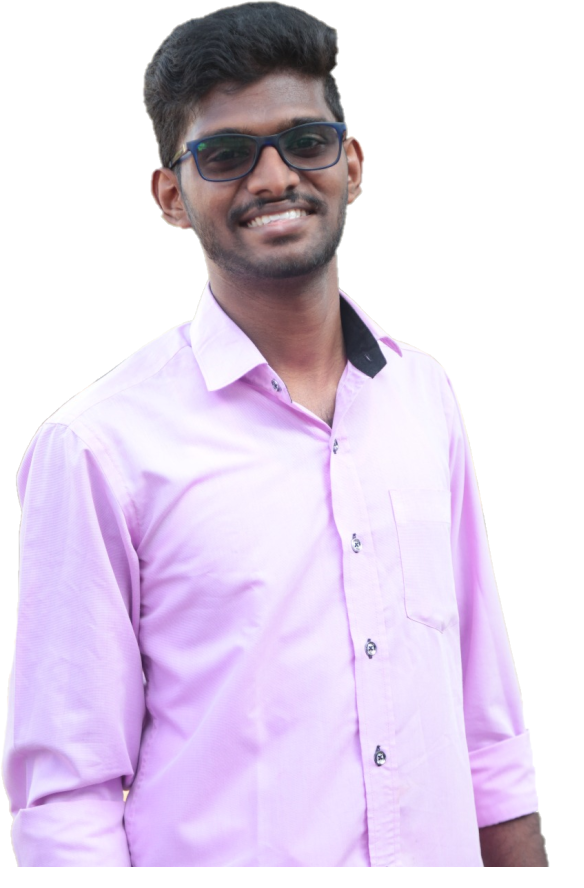
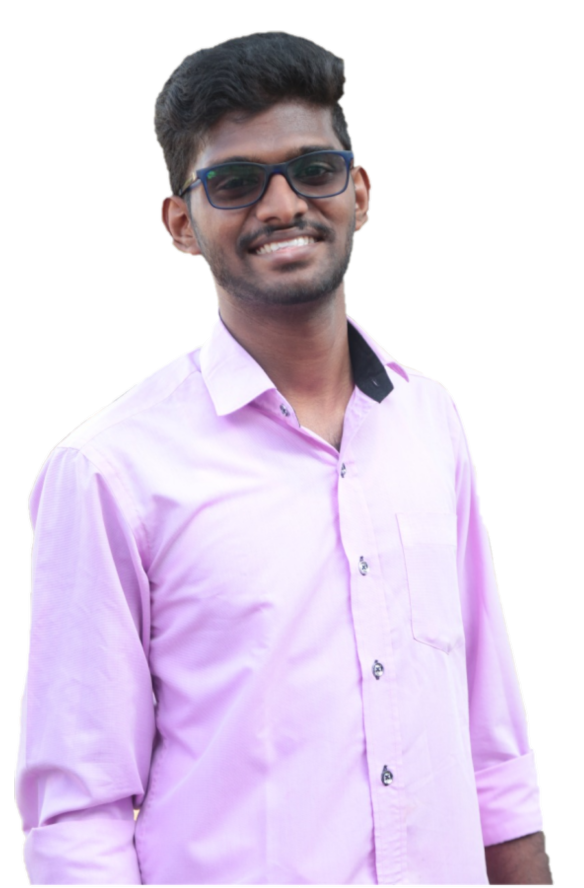
summa

diff --git a/index.html b/index.html
@@ -64,7 +64,6 @@
 
 
 <!--------------About Me------------------------------->
-    
 <div class="about container" id="about">
 <div class="row">
 <div class="col-md-6 text-center" data-aos="zoom-in" data-aos-delay="300">

diff --git a/css_in.css b/css_in.css
@@ -22,9 +22,9 @@ body
 }
 .user-box img
 {
-    border-radius: 20%;
-    width: 200px;
-    border: 1px solid white;
+    border-radius: 45%;
+    width: 250px;
+    border: 2px solid white;
 }
 .user-box h1
 {
